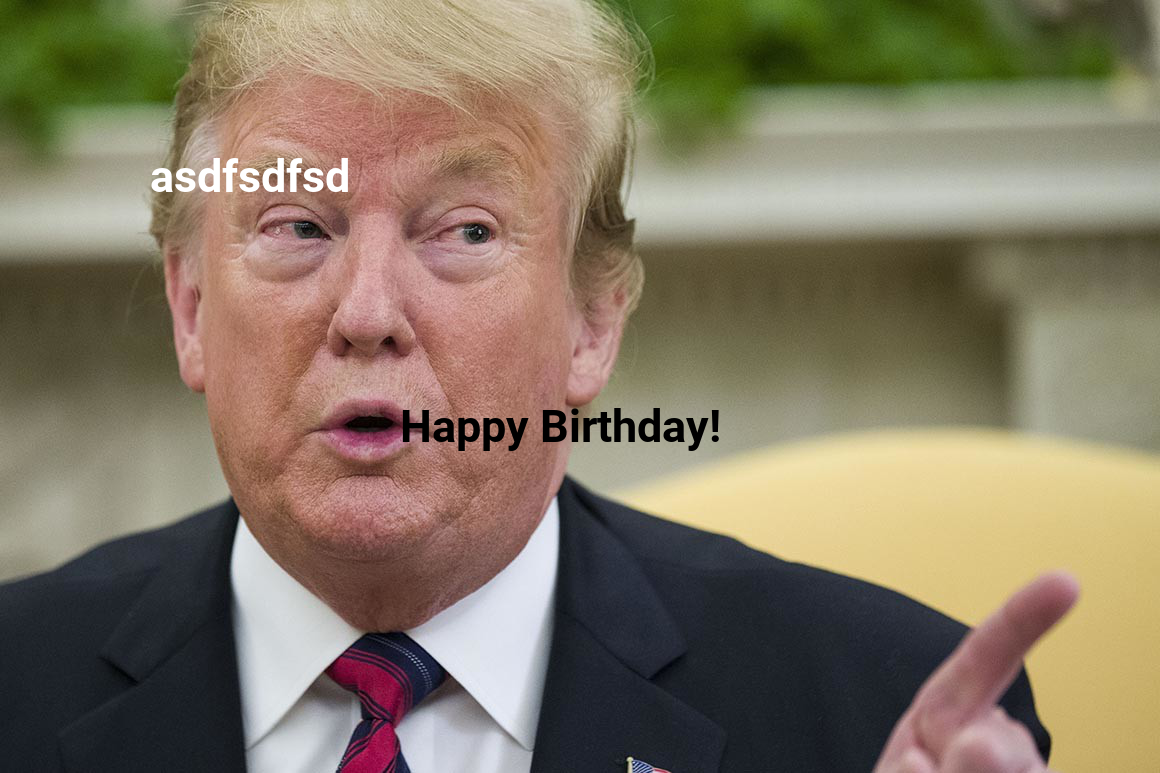
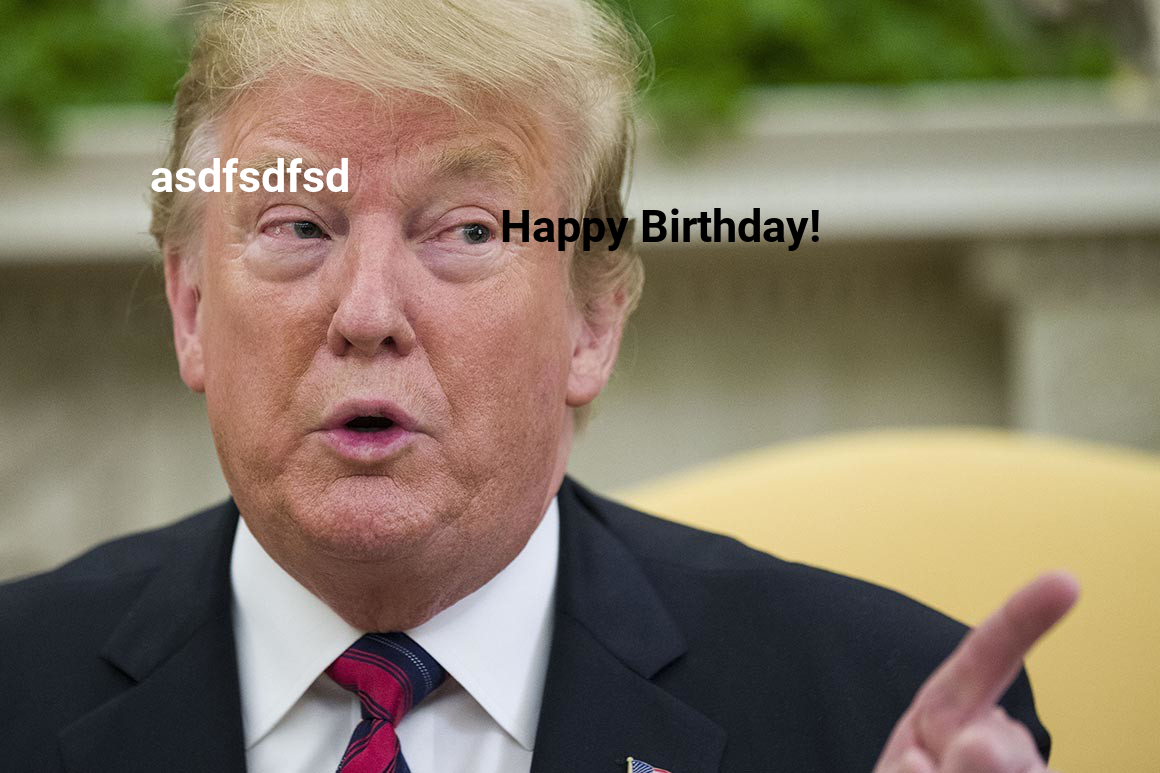
Add coordinates in model for text update

Changed region(s): [[0.3414, 0.5278, 0.6207, 0.5899], [0.4345, 0.2484, 0.7138, 0.3415]]

diff --git a/main/migrations/0006_auto_20190507_1913.py b/main/migrations/0006_auto_20190507_1913.py
@@ -1,0 +1,29 @@
+# Generated by Django 2.2.1 on 2019-05-07 13:43
+
+from django.db import migrations, models
+import django.db.models.deletion
+
+
+class Migration(migrations.Migration):
+
+    dependencies = [
+        ('main', '0005_auto_20190507_1907'),
+    ]
+
+    operations = [
+        migrations.CreateModel(
+            name='Pic',
+            fields=[
+                ('id', models.AutoField(auto_created=True, primary_key=True, serialize=False, verbose_name='ID')),
+                ('name', models.CharField(max_length=100)),
+                ('cover', models.ImageField(upload_to='images/')),
+                ('x', models.IntegerField(default=0)),
+                ('y', models.IntegerField(default=0)),
+                ('font', models.CharField(choices=[('Roboto', 'Roboto'), ('Arial', 'Arial')], default='Roboto', max_length=100)),
+                ('category', models.ForeignKey(on_delete=django.db.models.deletion.DO_NOTHING, to='main.Category')),
+            ],
+        ),
+        migrations.DeleteModel(
+            name='Image',
+        ),
+    ]

diff --git a/main/models.py b/main/models.py
@@ -9,13 +9,33 @@ class Category(models.Model):
     def __str__(self):
         return self.name
 
+    class Meta:
+        verbose_name_plural = "categories"
 
-class Image(models.Model):
-    name = models.TextField()
+
+class Pic(models.Model):
+
+    ROBOTO = 'Roboto'
+    ARIAL = 'Arial'
+    FONT_CHOICES = (
+        (ROBOTO, 'Roboto'),
+        (ARIAL, 'Arial'),
+    )
+
+    name = models.CharField(max_length=100)
     cover = models.ImageField(upload_to='images/')
-    category = models.OneToOneField(
+
+    category = models.ForeignKey(
         Category,
         on_delete=models.DO_NOTHING,
+    )
+    x = models.IntegerField(default=0)
+    y = models.IntegerField(default=0)
+
+    font = models.CharField(
+        max_length=100,
+        choices=FONT_CHOICES,
+        default=ROBOTO,
     )
 
     def __str__(self):

diff --git a/main/views.py b/main/views.py
@@ -2,11 +2,16 @@ from django.shortcuts import render
 from PIL import Image, ImageDraw, ImageFont
 # Create your views here.
 
+from .models import Pic
+
 
 def test(request):
 
-        # create Image object with the input image
-    image = Image.open('media/images/download.jpeg')
+    temp = Pic.objects.all().first()
+    print(temp.cover)
+
+    # create Image object with the input image
+    image = Image.open('media/'+str(temp.cover))
 
     # initialise the drawing context with
     # the image object as background
@@ -17,7 +22,7 @@ def test(request):
 
     # starting position of the message
 
-    (x, y) = (400, 400)
+    (x, y) = (temp.x, temp.y)
     message = "Happy Birthday!"
     color = 'rgb(0, 0, 0)'  # black color
 

diff --git a/main/migrations/0005_auto_20190507_1907.py b/main/migrations/0005_auto_20190507_1907.py
@@ -1,0 +1,22 @@
+# Generated by Django 2.2.1 on 2019-05-07 13:37
+
+from django.db import migrations, models
+
+
+class Migration(migrations.Migration):
+
+    dependencies = [
+        ('main', '0004_auto_20190507_1858'),
+    ]
+
+    operations = [
+        migrations.AlterModelOptions(
+            name='category',
+            options={'verbose_name_plural': 'categories'},
+        ),
+        migrations.AddField(
+            model_name='image',
+            name='font',
+            field=models.CharField(choices=[('Roboto', 'Roboto')], default='Roboto', max_length=100),
+        ),
+    ]

diff --git a/main/migrations/0002_auto_20190507_1854.py b/main/migrations/0002_auto_20190507_1854.py
@@ -1,0 +1,23 @@
+# Generated by Django 2.2.1 on 2019-05-07 13:24
+
+from django.db import migrations, models
+
+
+class Migration(migrations.Migration):
+
+    dependencies = [
+        ('main', '0001_initial'),
+    ]
+
+    operations = [
+        migrations.AddField(
+            model_name='image',
+            name='x',
+            field=models.IntegerField(default=0),
+        ),
+        migrations.AddField(
+            model_name='image',
+            name='y',
+            field=models.IntegerField(default=0),
+        ),
+    ]

diff --git a/main/migrations/0004_auto_20190507_1858.py b/main/migrations/0004_auto_20190507_1858.py
@@ -1,0 +1,19 @@
+# Generated by Django 2.2.1 on 2019-05-07 13:28
+
+from django.db import migrations, models
+import django.db.models.deletion
+
+
+class Migration(migrations.Migration):
+
+    dependencies = [
+        ('main', '0003_auto_20190507_1856'),
+    ]
+
+    operations = [
+        migrations.AlterField(
+            model_name='image',
+            name='category',
+            field=models.ForeignKey(on_delete=django.db.models.deletion.DO_NOTHING, to='main.Category'),
+        ),
+    ]

diff --git a/main/migrations/0003_auto_20190507_1856.py b/main/migrations/0003_auto_20190507_1856.py
@@ -1,0 +1,18 @@
+# Generated by Django 2.2.1 on 2019-05-07 13:26
+
+from django.db import migrations, models
+
+
+class Migration(migrations.Migration):
+
+    dependencies = [
+        ('main', '0002_auto_20190507_1854'),
+    ]
+
+    operations = [
+        migrations.AlterField(
+            model_name='image',
+            name='name',
+            field=models.CharField(max_length=100),
+        ),
+    ]

diff --git a/main/admin.py b/main/admin.py
@@ -1,6 +1,6 @@
 from django.contrib import admin
 
-from .models import Category, Image
+from .models import Category, Pic
 
 admin.site.register(Category)
-admin.site.register(Image)
+admin.site.register(Pic)
